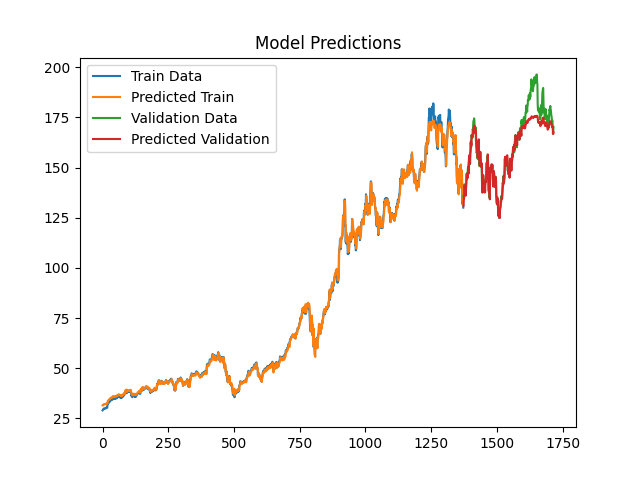
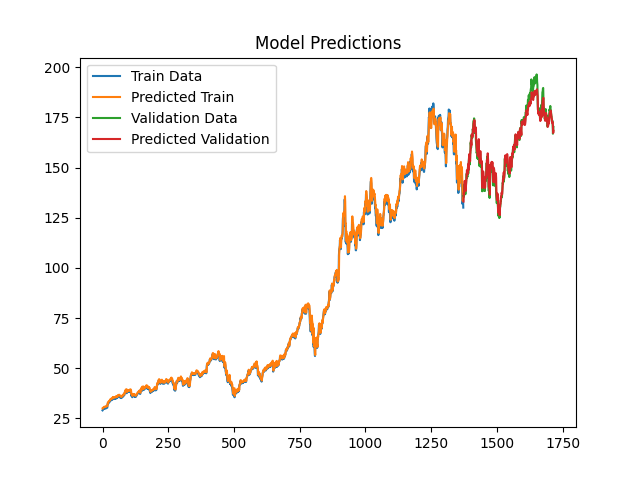
Changed input shape of the model

diff --git a/train.py b/train.py
@@ -12,9 +12,6 @@ def create_sequences(data, seq_size=1):
         x[:, i] = data[i: len(data) - seq_size + i].reshape(-1)
 
     y = data[seq_size:]
-
-    print(x.shape)
-    print(y.shape)
     return x, y
 
 
@@ -36,16 +33,18 @@ scaled_val = min_max_scaler.transform(x_val)
 
 
 model = tf.keras.Sequential([
-    tf.keras.layers.LSTM(32, input_shape=(1, sequence_size), return_sequences=True),
+    tf.keras.layers.LSTM(64, input_shape=(sequence_size, 1), return_sequences=True),
+    tf.keras.layers.LSTM(32, return_sequences=True),
     tf.keras.layers.LSTM(16),
     tf.keras.layers.Dense(8, activation='elu', kernel_initializer='he_normal'),
+    tf.keras.layers.Dense(4, activation='elu', kernel_initializer='he_normal'),
     tf.keras.layers.Dense(1)
 ])
 
 model.compile(loss='mean_squared_error', optimizer='adam')
 
-early_stopping = tf.keras.callbacks.EarlyStopping(monitor='val_loss', restore_best_weights=True, verbose=1)
-history = model.fit(scaled_train, y_train, validation_data=[scaled_val, y_val], verbose=1, epochs=100,
+early_stopping = tf.keras.callbacks.EarlyStopping(monitor='val_loss', restore_best_weights=True, verbose=1, patience=5)
+history = model.fit(scaled_train, y_train, validation_data=[scaled_val, y_val], verbose=1, epochs=200,
                     callbacks=[early_stopping])
 
 pd.DataFrame(history.history).plot()
